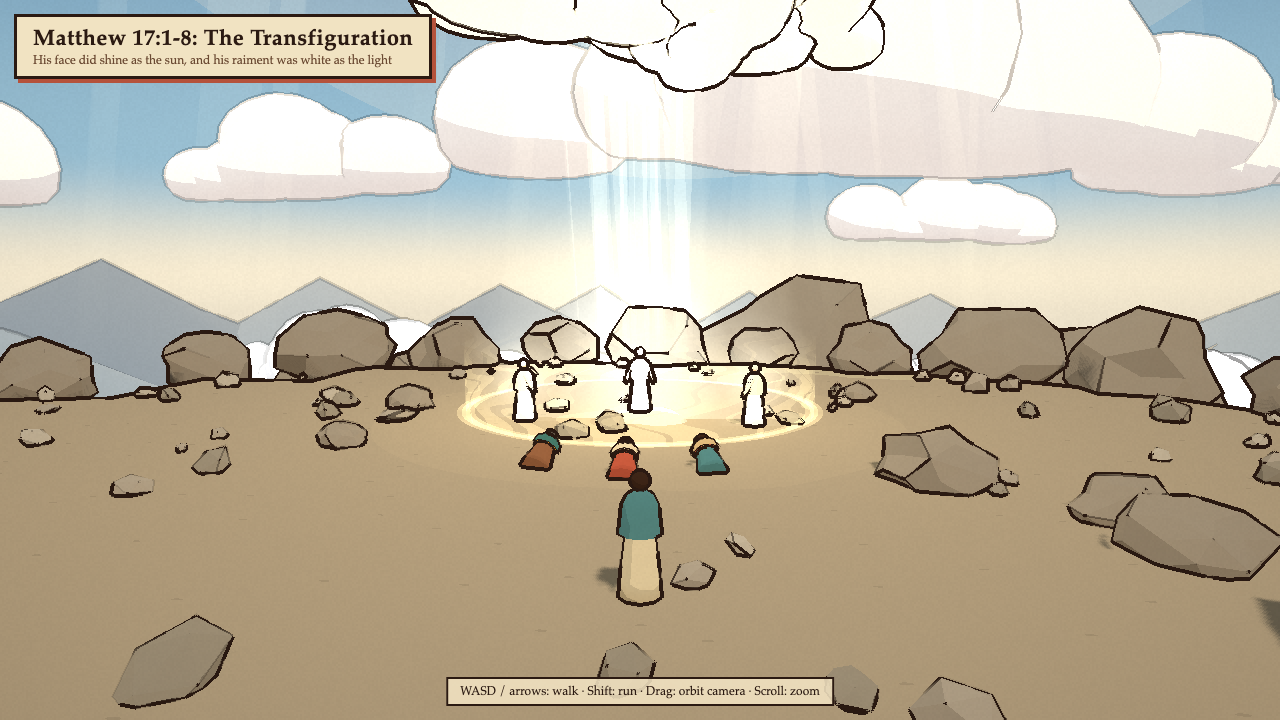
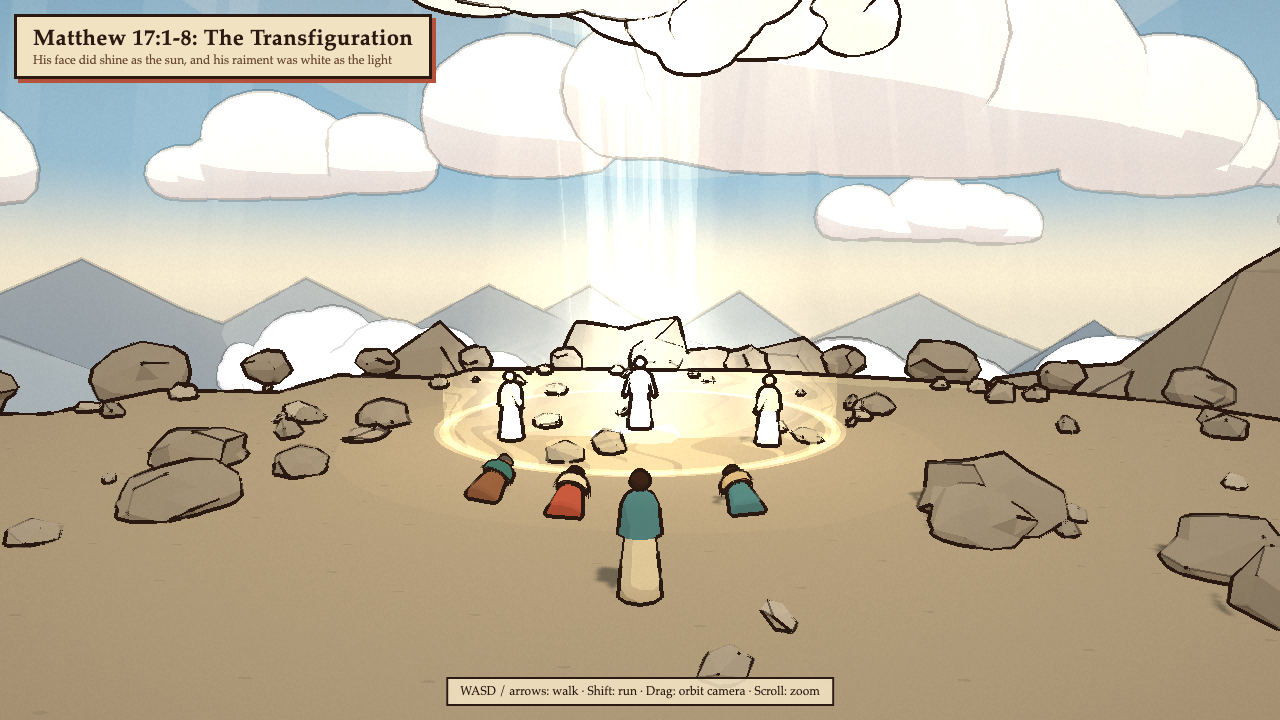
feat: polish toon scenes nt-13 to nt-18

diff --git a/styles/toon/scenes/nt-18.js b/styles/toon/scenes/nt-18.js
@@ -39,8 +39,8 @@ export default {
     const face = [], dark = [], hill = [], cut = [];
     face.push(box(14, 7, 4, TOMB[0], 3.2, TOMB[1] - 1.5));
     ctx.addCollider({ x: TOMB[0], z: TOMB[1] - 1.5, hx: 7, hz: 2, rot: 0, top: 6.7 });
-    dark.push(box(1.7, 2.3, 0.6, TOMB[0], 1.15, TOMB[1] + 0.25));
-    cut.push(box(2.5, 0.35, 0.5, TOMB[0], 2.45, TOMB[1] + 0.35), box(0.4, 2.4, 0.5, TOMB[0] - 1.05, 1.2, TOMB[1] + 0.35), box(0.4, 2.4, 0.5, TOMB[0] + 1.05, 1.2, TOMB[1] + 0.35));
+    dark.push(box(2.0, 2.6, 0.6, TOMB[0], 1.3, TOMB[1] + 0.25));
+    cut.push(box(2.9, 0.4, 0.5, TOMB[0], 2.8, TOMB[1] + 0.35), box(0.45, 2.7, 0.5, TOMB[0] - 1.22, 1.35, TOMB[1] + 0.35), box(0.45, 2.7, 0.5, TOMB[0] + 1.22, 1.35, TOMB[1] + 0.35));
     cut.push(box(3.2, 0.3, 1.6, TOMB[0], 0.1, TOMB[1] + 1.1));
     for (let i = 0; i < 22; i++) {
       const x = -34 + (i / 21) * 68 + (rng() - 0.5) * 3;
@@ -63,7 +63,8 @@ export default {
     addMesh(scene, face, kit.toon(rock));
     addMesh(scene, hill, kit.toon('#b89c74'));
     addMesh(scene, cut, kit.stoneMat('#d8c49c'));
-    addMesh(scene, dark, kit.toon('#1e140e'), { cast: false });
+    // Unlit so the open tomb reads as black depth behind Lazarus.
+    addMesh(scene, dark, kit.basic('#0b0705'), { cast: false });
 
     // The rolling stone, taken away and leaning against the rock beside the door (11:41).
     const wheel = cyl(1.45, 1.45, 0.5, 0, 0, 0, { rx: Math.PI / 2 }, 20);
@@ -74,7 +75,7 @@ export default {
 
     // Lazarus at the door, bound hand and foot with graveclothes, his face bound with a napkin (11:44).
     const wrap = { robe: '#f2ede0', mantle: '#e9e2d0', skin: '#efe8d8', hair: '#e6dfcc' };
-    const laz = figure(ctx, wrap, LAZARUS, { face: JESUS, clear: 1.2, y: 0.1 });
+    const laz = figure(ctx, wrap, LAZARUS, { face: JESUS, clear: 1.2, y: 0.1, scale: 1.12 });
     const bands = [];
     for (const h of [0.25, 0.55, 0.85, 1.12, 1.36]) {
       const r = h < 1 ? 0.27 - h * 0.05 : 0.23;
@@ -84,11 +85,10 @@ export default {
       bands.push(t);
     }
     addMesh(laz, bands, kit.toon('#cfc4aa'), { cast: false });
-    glow(ctx, [LAZARUS[0], 1.3, LAZARUS[1] + 0.3], 3.2, '#fff6dc', { opacity: 0.35 });
 
     // Christ calls him forth; Martha and Mary beside Him (11:39-43).
     figure(ctx, CHRIST, JESUS, { face: LAZARUS, glow: 0.35, scale: 1.1, arms: [0.25, 2.3], clear: 1.4 });
-    glow(ctx, [JESUS[0], 1.5, JESUS[1]], 5, '#fff3d0', { opacity: 0.55 });
+    glow(ctx, [JESUS[0], 1.3, JESUS[1] + 0.2], 2.6, '#fff3d0', { opacity: 0.4 });
     figure(ctx, { robe: '#4f7f80', mantle: '#d9c7a3', skin: '#b5825a', hair: '#d9c7a3', arms: [0.2, 1.4] }, [-1.9, -4.2], { face: LAZARUS, clear: 0.9 });
     figure(ctx, { robe: '#b5523b', mantle: '#e6d8b8', skin: '#b5825a', hair: '#e6d8b8', arms: [0.25, 2.0] }, [2.3, -4.9], { face: LAZARUS, pose: 'kneel', clear: 0.9 });
     figure(ctx, DISCIPLES[0], [-3.4, -2.4], { face: LAZARUS, clear: 0.9 });
@@ -124,7 +124,7 @@ export default {
   },
 
   player: {
-    start: [-0.8, 3],
+    start: [-0.9, 0.6],
     lookAt: TOMB,
     colors: DISCIPLES[11],
   },

diff --git a/styles/toon/scenes/nt-17.js b/styles/toon/scenes/nt-17.js
@@ -47,24 +47,30 @@ export default {
     const ranges = scene.children.find((o) => o.isInstancedMesh && o.geometry.type === 'ConeGeometry');
     if (ranges) ranges.position.y = -95;
 
-    // A ring of crags around the summit edge holds walkers on the plateau.
+    // Low crags sit just past the summit edge. A waist-high wall inside them holds walkers, and each crag
+    // carries a collider as tall as itself so the chase camera pulls in instead of passing through rock.
     const rocks = [];
-    const n = 28;
+    const n = 34;
     for (let i = 0; i < n; i++) {
       const a = (i / n) * Math.PI * 2;
-      const r = R - 0.5 + rng() * 1.5;
+      const wx = Math.sin(a) * (R - 1.2), wz = Math.cos(a) * (R - 1.2);
+      ctx.addCollider({ x: wx, z: wz, hx: (Math.PI * (R - 1.2)) / n + 0.3, hz: 0.4, rot: a, top: 1.2 });
+      const r = R + 0.4 + rng() * 1.4;
       const x = Math.sin(a) * r, z = Math.cos(a) * r;
-      const s = 1.6 + rng() * 1.6;
-      rocks.push(boulder(rng, s, x, ctx.terrainHeight(x, z) + s * 0.25, z, { squash: 0.8 }));
-      ctx.addCollider({ x, z, hx: (Math.PI * R) / n + 0.6, hz: 0.8, rot: a, top: 4 });
+      const s = 0.8 + rng() * 1.0;
+      const y = ctx.terrainHeight(x, z);
+      rocks.push(boulder(rng, s, x, y + s * 0.2, z, { squash: 0.75 }));
+      ctx.addCollider({ x, z, hx: s * 1.15, hz: s * 1.15, rot: a, top: y + s * 1.3 });
     }
     for (let i = 0; i < 20; i++) {
       const a = rng() * Math.PI * 2, r = 6 + rng() * (R - 9);
       const x = Math.sin(a) * r, z = Math.cos(a) * r;
       if (Math.hypot(x - JESUS[0], z - JESUS[1]) < 7 || Math.abs(x) < 2.5) continue;
       const s = 0.5 + rng() * 0.9;
-      rocks.push(boulder(rng, s, x, ctx.terrainHeight(x, z) + s * 0.2, z));
+      const y = ctx.terrainHeight(x, z);
+      rocks.push(boulder(rng, s, x, y + s * 0.2, z));
       ctx.exclude({ kind: 'circle', x, z, r: s + 0.3 });
+      ctx.addCollider({ x, z, hx: s * 0.9, hz: s * 0.9, rot: 0, top: y + s * 1.1 });
     }
     // Cliffs falling away under the rim.
     for (let i = 0; i < 40; i++) {
@@ -89,9 +95,9 @@ export default {
     glow(ctx, [ELIAS[0], 1.3, ELIAS[1]], 4, '#fff4d8', { opacity: 0.45 });
 
     // Peter, James and John fallen on their faces, sore afraid (17:6).
-    figure(ctx, DISCIPLES[0], [-1.9, -1.8], { face: JESUS, pose: 'bow', clear: 1 });
-    figure(ctx, DISCIPLES[1], [0.1, -1.2], { face: JESUS, pose: 'bow', clear: 1 });
-    figure(ctx, DISCIPLES[2], [2.0, -1.9], { face: JESUS, pose: 'bow', clear: 1 });
+    figure(ctx, DISCIPLES[0], [-2.7, -1.9], { face: JESUS, pose: 'bow', clear: 1 });
+    figure(ctx, DISCIPLES[1], [-1.0, -1.1], { face: JESUS, pose: 'bow', clear: 1 });
+    figure(ctx, DISCIPLES[2], [2.3, -1.6], { face: JESUS, pose: 'bow', clear: 1 });
   },
 
   clouds: {
@@ -110,7 +116,7 @@ export default {
   },
 
   player: {
-    start: [0.8, 4],
+    start: [0.5, 1.8],
     lookAt: JESUS,
     colors: DISCIPLES[11],
   },

diff --git a/styles/toon/scenes/nt-16.js b/styles/toon/scenes/nt-16.js
@@ -3,8 +3,8 @@
 import * as THREE from 'three';
 import { CHRIST, DISCIPLES, boat, figure, flatColors, glow, groundMesh, moon, NO_PLAZA, rockBoat, sea, stars, toonStyle } from './lib/nt-13-kit.js';
 
-const JESUS = [2.6, -14];
-const PETER = [-2.4, -8];
+const JESUS = [2.2, -10.8];
+const PETER = [-4.4, -8.4];
 
 export default {
   title: 'Matthew 14:22-33: Walking on water',
@@ -51,7 +51,7 @@ export default {
     on(DISCIPLES[10], 3.7, -0.2, { face: JESUS, arms: [0.25, 1.6] });
 
     // Christ on the water, hand stretched out; Peter walking to Him on the waves (14:29).
-    figure(ctx, CHRIST, JESUS, { face: PETER, glow: 0.55, scale: 1.1, y: 0.05, arms: [0.25, 1.45], clear: 1.2 });
+    figure(ctx, CHRIST, JESUS, { face: PETER, glow: 0.55, scale: 1.15, y: 0.05, arms: [0.25, 1.45], clear: 1.2 });
     glow(ctx, [JESUS[0], 1.5, JESUS[1]], 7, '#e8f0ff', { opacity: 0.7 });
     const pool = new THREE.Mesh(new THREE.CircleGeometry(3.2, 40), new THREE.MeshBasicMaterial({ color: '#c8d8ff', transparent: true, opacity: 0.22, depthWrite: false, blending: THREE.AdditiveBlending, fog: false }));
     pool.rotation.x = -Math.PI / 2;
@@ -68,6 +68,7 @@ export default {
   light: {
     pointLights: [
       { at: JESUS, lift: 2.2, color: '#dce6ff', intensity: 16, distance: 18 },
+      { at: PETER, lift: 2.0, color: '#c8d8ff', intensity: 6, distance: 6 },
       { at: [-5, -1], lift: 1.6, color: '#ffb060', intensity: 4, distance: 7 },
     ],
     glows: [{ at: [-4.4, -0.2], lift: 1.6, size: 1.6, color: '#ffc070', opacity: 0.8 }],
@@ -75,7 +76,7 @@ export default {
 
   player: {
     start: [-1.2, 0.5],
-    lookAt: [0.2, -11],
+    lookAt: [0.3, -8.6],
     colors: DISCIPLES[11],
   },
 };

diff --git a/styles/toon/scenes/nt-13.js b/styles/toon/scenes/nt-13.js
@@ -56,8 +56,8 @@ export default {
     const on = (colors, x, z, opts = {}) => figure(ctx, colors, [x, z], { y: 0, parent: b.inner, ...opts });
 
     // Christ in the stern, arms raised against the wind (Mark 4:39). A cushion lies where He slept (4:38).
-    on(CHRIST, -3.55, 0, { face: [10, 0], glow: 0.35, scale: 1.08, arms: [0.35, 2.55] });
-    glow(ctx, [-3.55, 1.5, 0], 4.5, '#fff1cc', { opacity: 0.55, parent: b.inner });
+    on(CHRIST, -3.55, 0, { face: [10, 0], glow: 0.35, scale: 1.12, y: 0.3, arms: [0.35, 2.55] });
+    glow(ctx, [-3.55, 1.8, 0], 4.5, '#fff1cc', { opacity: 0.55, parent: b.inner });
     const pillow = new THREE.Mesh(new THREE.CapsuleGeometry(0.22, 0.5, 4, 8), ctx.kit.toon('#b5523b'));
     pillow.rotation.x = Math.PI / 2;
     pillow.position.set(-4.2, 0.95, 0);

diff --git a/styles/toon/scenes/nt-14.js b/styles/toon/scenes/nt-14.js
@@ -8,8 +8,8 @@ const POOL = { hx: 14, hz: 5.5, cz: 8 };
 const LEDGE = 1.6;
 const DEPTH = 5;
 const COL_H = 4;
-const MAN = [-4, 14.35];
-const JESUS = [-4, 16.3];
+const MAN = [-4.8, 13.95];
+const JESUS = [-3.0, 14.75];
 
 const stone = '#e8dcc0';
 const column = '#f1e8d2';
@@ -177,8 +177,8 @@ export default {
   },
 
   player: {
-    start: [1.2, 3.0],
-    lookAt: [-4, 15.6],
+    start: [1.8, 13.8],
+    lookAt: [-4.4, 15.6],
     colors: PLAYER,
   },
 };

diff --git a/styles/toon/scenes/nt-15.js b/styles/toon/scenes/nt-15.js
@@ -112,7 +112,7 @@ export default {
   },
 
   player: {
-    start: [0, 3],
+    start: [0.6, -7.2],
     lookAt: JESUS,
     colors: { robe: '#a87b4f', mantle: '#4f7f80', skin: '#a8724a', hair: '#2b1a12', sash: '#c8912e' },
   },
